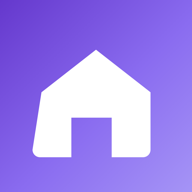
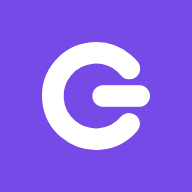
Replace provider-web's leftover Nestly house glyph with the Glavyx mark
The PWA install icon (icon.svg + its rasterized icon-192.png/
icon-512.png) and every in-app logo occurrence (auth-ui.tsx's login/
register header, ProviderHeader's mobile brand mark, ProviderSidebar's
desktop rail) still drew Nestly's old house/nest glyph - only the text
labels had been updated to "Glavyx" during the rename, not the mark
itself. customer-web's SiteHeader already carries the real Glavyx mark
(GlavyxMark: a stroke-based ring with a crossbar, forming a "G") but
provider-web never picked it up, so a provider installing the app to
their home screen got an icon that read as a different, unrelated
product from the app they were actually using.

All five locations now render the same glyph, keeping the home-screen
icon and every in-app brand mark in sync, matching icon.svg's own doc
comment ("all three must be edited together or the brand mark drifts
across surfaces").

diff --git a/frontend/provider-web/src/components/auth-ui.tsx b/frontend/provider-web/src/components/auth-ui.tsx
@@ -58,15 +58,27 @@ export function AuthShell({
         <div className="w-full max-w-md animate-rise">
           <div className="mb-8 text-center">
             <Link href="/" className="inline-flex items-center gap-2" aria-label="Glavyx Provider home">
+              {/* Same mark as customer-web's SiteHeader `GlavyxMark` and this
+                  app's own public/icon.svg (the PWA install icon source) -
+                  a house/nest glyph was left here from Nestly and never
+                  updated, so the in-app logo and the home-screen icon read
+                  as two unrelated brands. All three must stay in sync. */}
               <span
                 aria-hidden
                 className="flex h-9 w-9 items-center justify-center rounded-xl bg-brand-gradient text-fg-on-brand shadow-brand"
               >
                 <svg viewBox="0 0 24 24" fill="none" className="h-5 w-5">
-                  <path
-                    d="M4 11.5 12 5l8 6.5V19a1 1 0 0 1-1 1h-4v-5h-6v5H5a1 1 0 0 1-1-1v-7.5Z"
-                    fill="currentColor"
+                  <circle
+                    cx="12"
+                    cy="12"
+                    r="9"
+                    stroke="currentColor"
+                    strokeWidth="4.5"
+                    strokeLinecap="round"
+                    strokeDasharray="44 13"
+                    transform="rotate(40 12 12)"
                   />
+                  <line x1="13.5" y1="12" x2="21" y2="12" stroke="currentColor" strokeWidth="4.5" strokeLinecap="round" />
                 </svg>
               </span>
               <span className="text-base font-semibold tracking-tight text-fg">

diff --git a/frontend/provider-web/src/components/ProviderHeader.tsx b/frontend/provider-web/src/components/ProviderHeader.tsx
@@ -74,10 +74,17 @@ export function ProviderHeader({ claims }: { claims: ProviderSessionClaims | nul
           className="flex h-8 w-8 items-center justify-center rounded-lg bg-brand-gradient text-fg-on-brand shadow-brand"
         >
           <svg viewBox="0 0 24 24" fill="none" className="h-[18px] w-[18px]">
-            <path
-              d="M4 11.5 12 5l8 6.5V19a1 1 0 0 1-1 1h-4v-5h-6v5H5a1 1 0 0 1-1-1v-7.5Z"
-              fill="currentColor"
+            <circle
+              cx="12"
+              cy="12"
+              r="9"
+              stroke="currentColor"
+              strokeWidth="4.5"
+              strokeLinecap="round"
+              strokeDasharray="44 13"
+              transform="rotate(40 12 12)"
             />
+            <line x1="13.5" y1="12" x2="21" y2="12" stroke="currentColor" strokeWidth="4.5" strokeLinecap="round" />
           </svg>
         </span>
         <span className="text-[0.9375rem] font-semibold tracking-tight text-fg">

diff --git a/frontend/provider-web/src/components/ProviderSidebar.tsx b/frontend/provider-web/src/components/ProviderSidebar.tsx
@@ -49,10 +49,17 @@ function SidebarBrand() {
         className="flex h-9 w-9 items-center justify-center rounded-xl bg-brand-gradient text-fg-on-brand shadow-brand"
       >
         <svg viewBox="0 0 24 24" fill="none" className="h-5 w-5">
-          <path
-            d="M4 11.5 12 5l8 6.5V19a1 1 0 0 1-1 1h-4v-5h-6v5H5a1 1 0 0 1-1-1v-7.5Z"
-            fill="currentColor"
+          <circle
+            cx="12"
+            cy="12"
+            r="9"
+            stroke="currentColor"
+            strokeWidth="4.5"
+            strokeLinecap="round"
+            strokeDasharray="44 13"
+            transform="rotate(40 12 12)"
           />
+          <line x1="13.5" y1="12" x2="21" y2="12" stroke="currentColor" strokeWidth="4.5" strokeLinecap="round" />
         </svg>
       </span>
       <span className="text-[0.9375rem] font-semibold tracking-tight text-fg">
